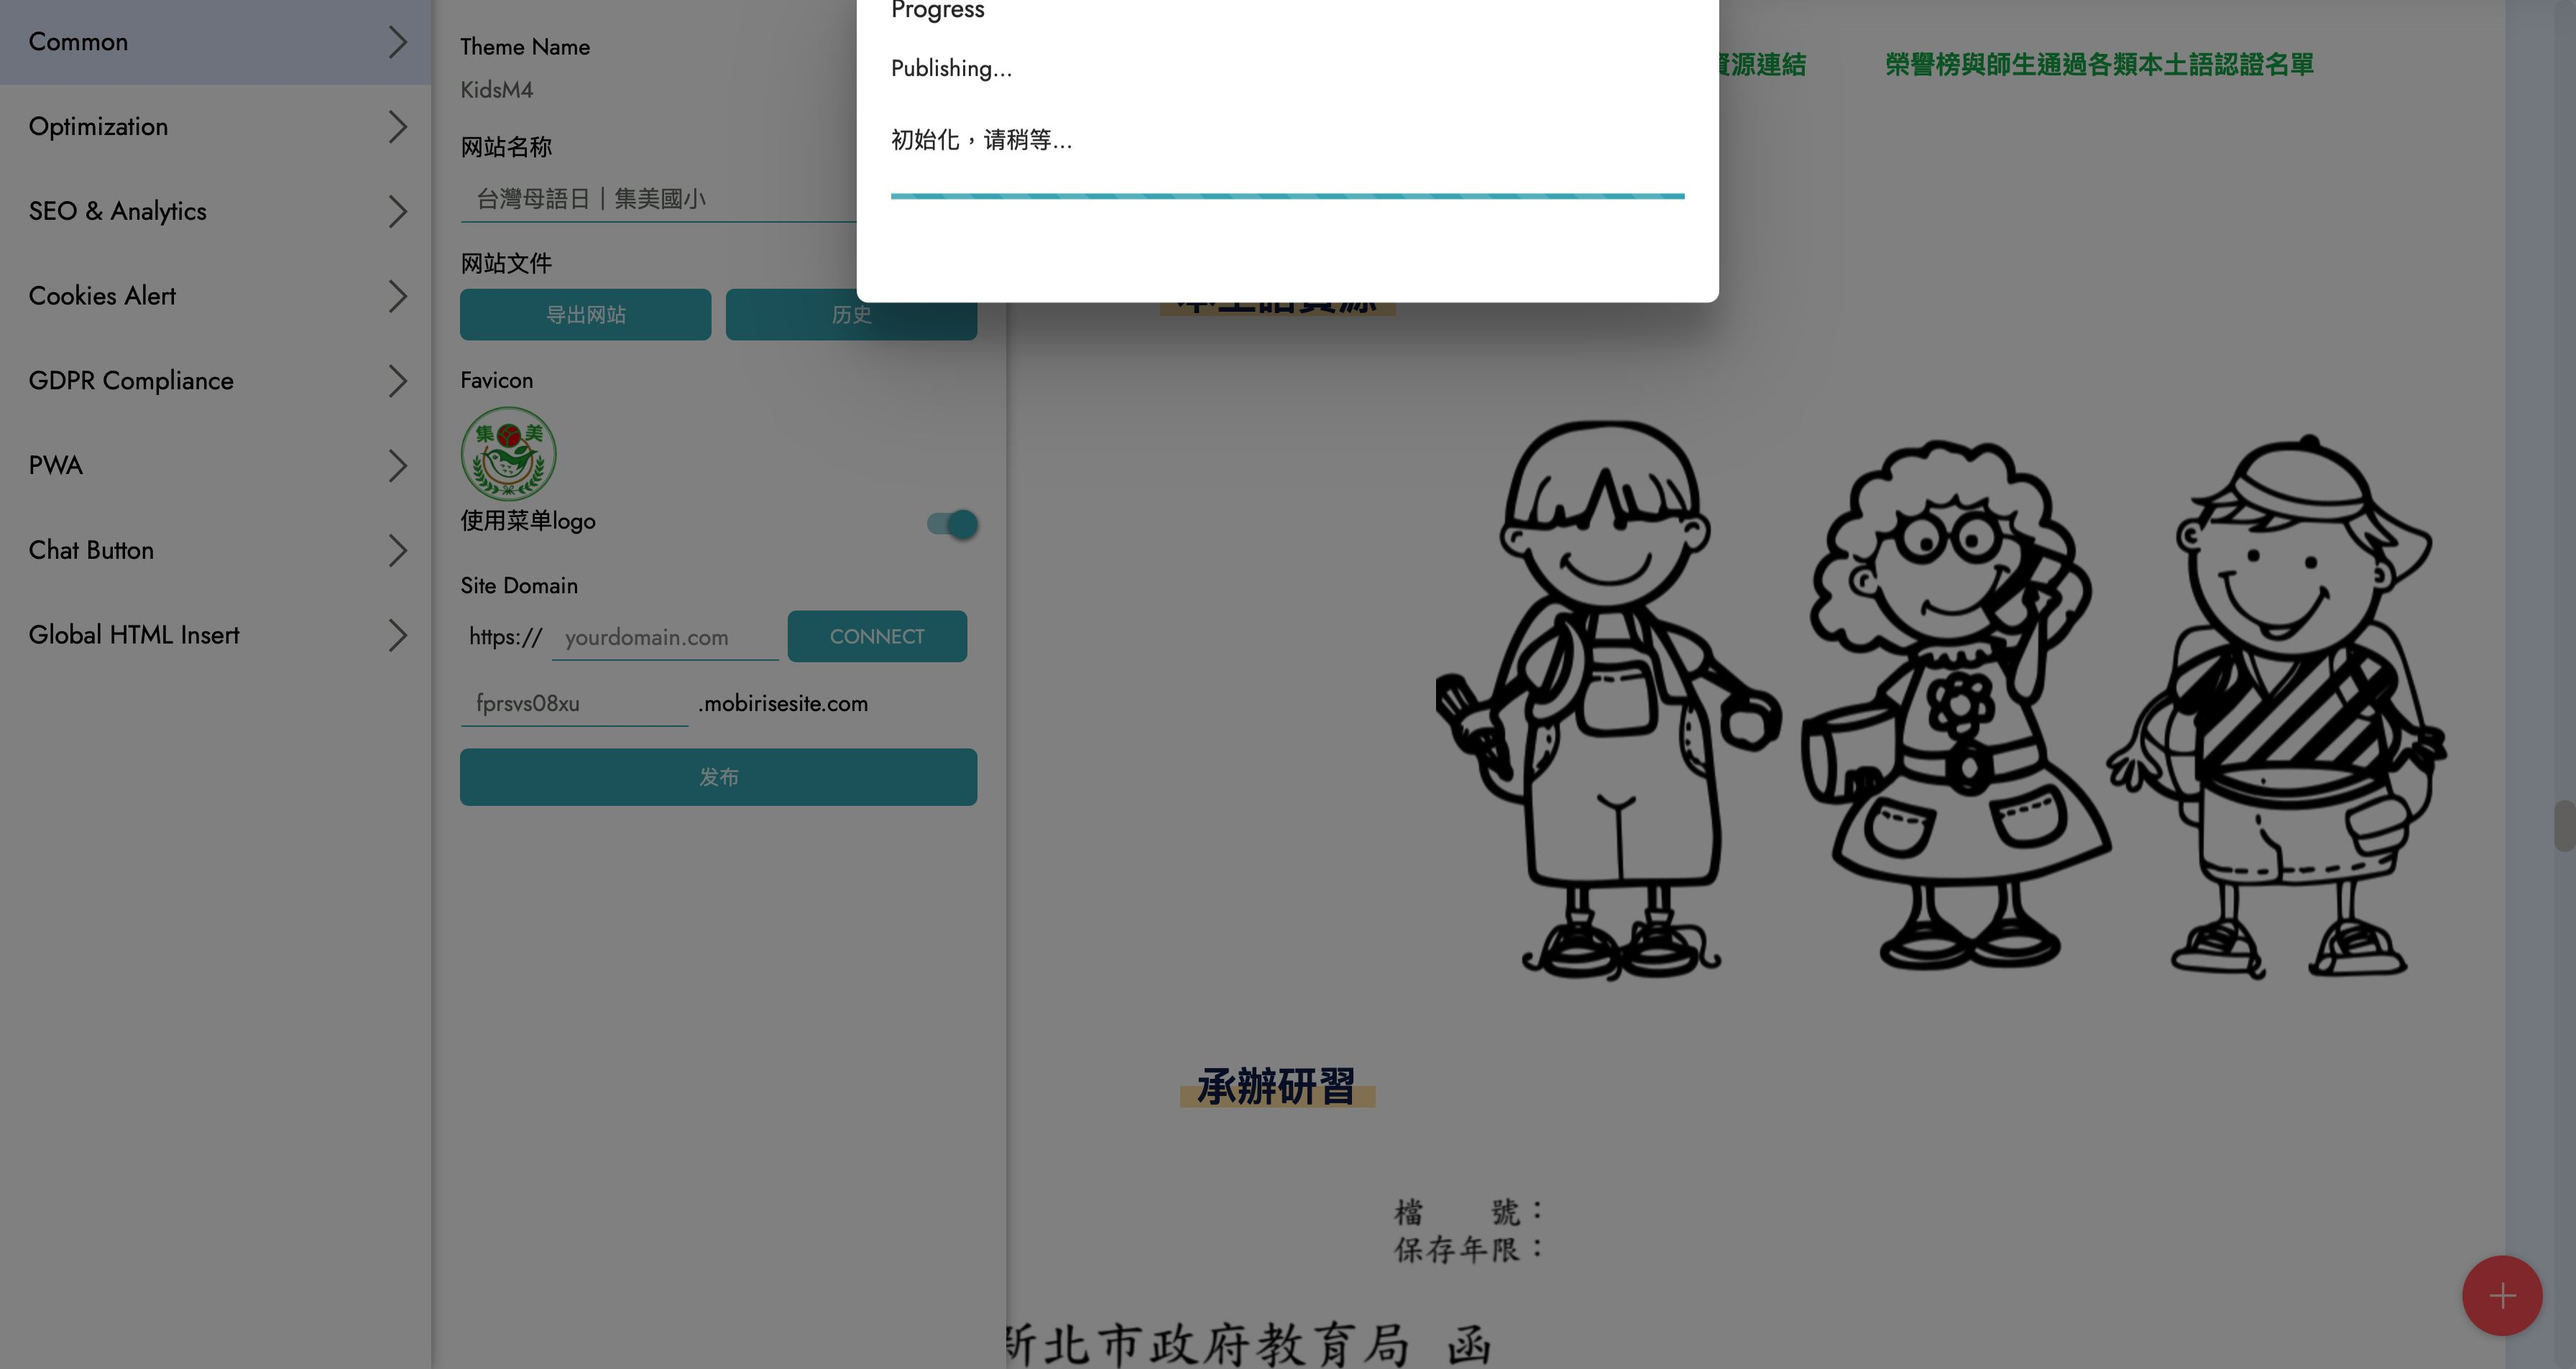
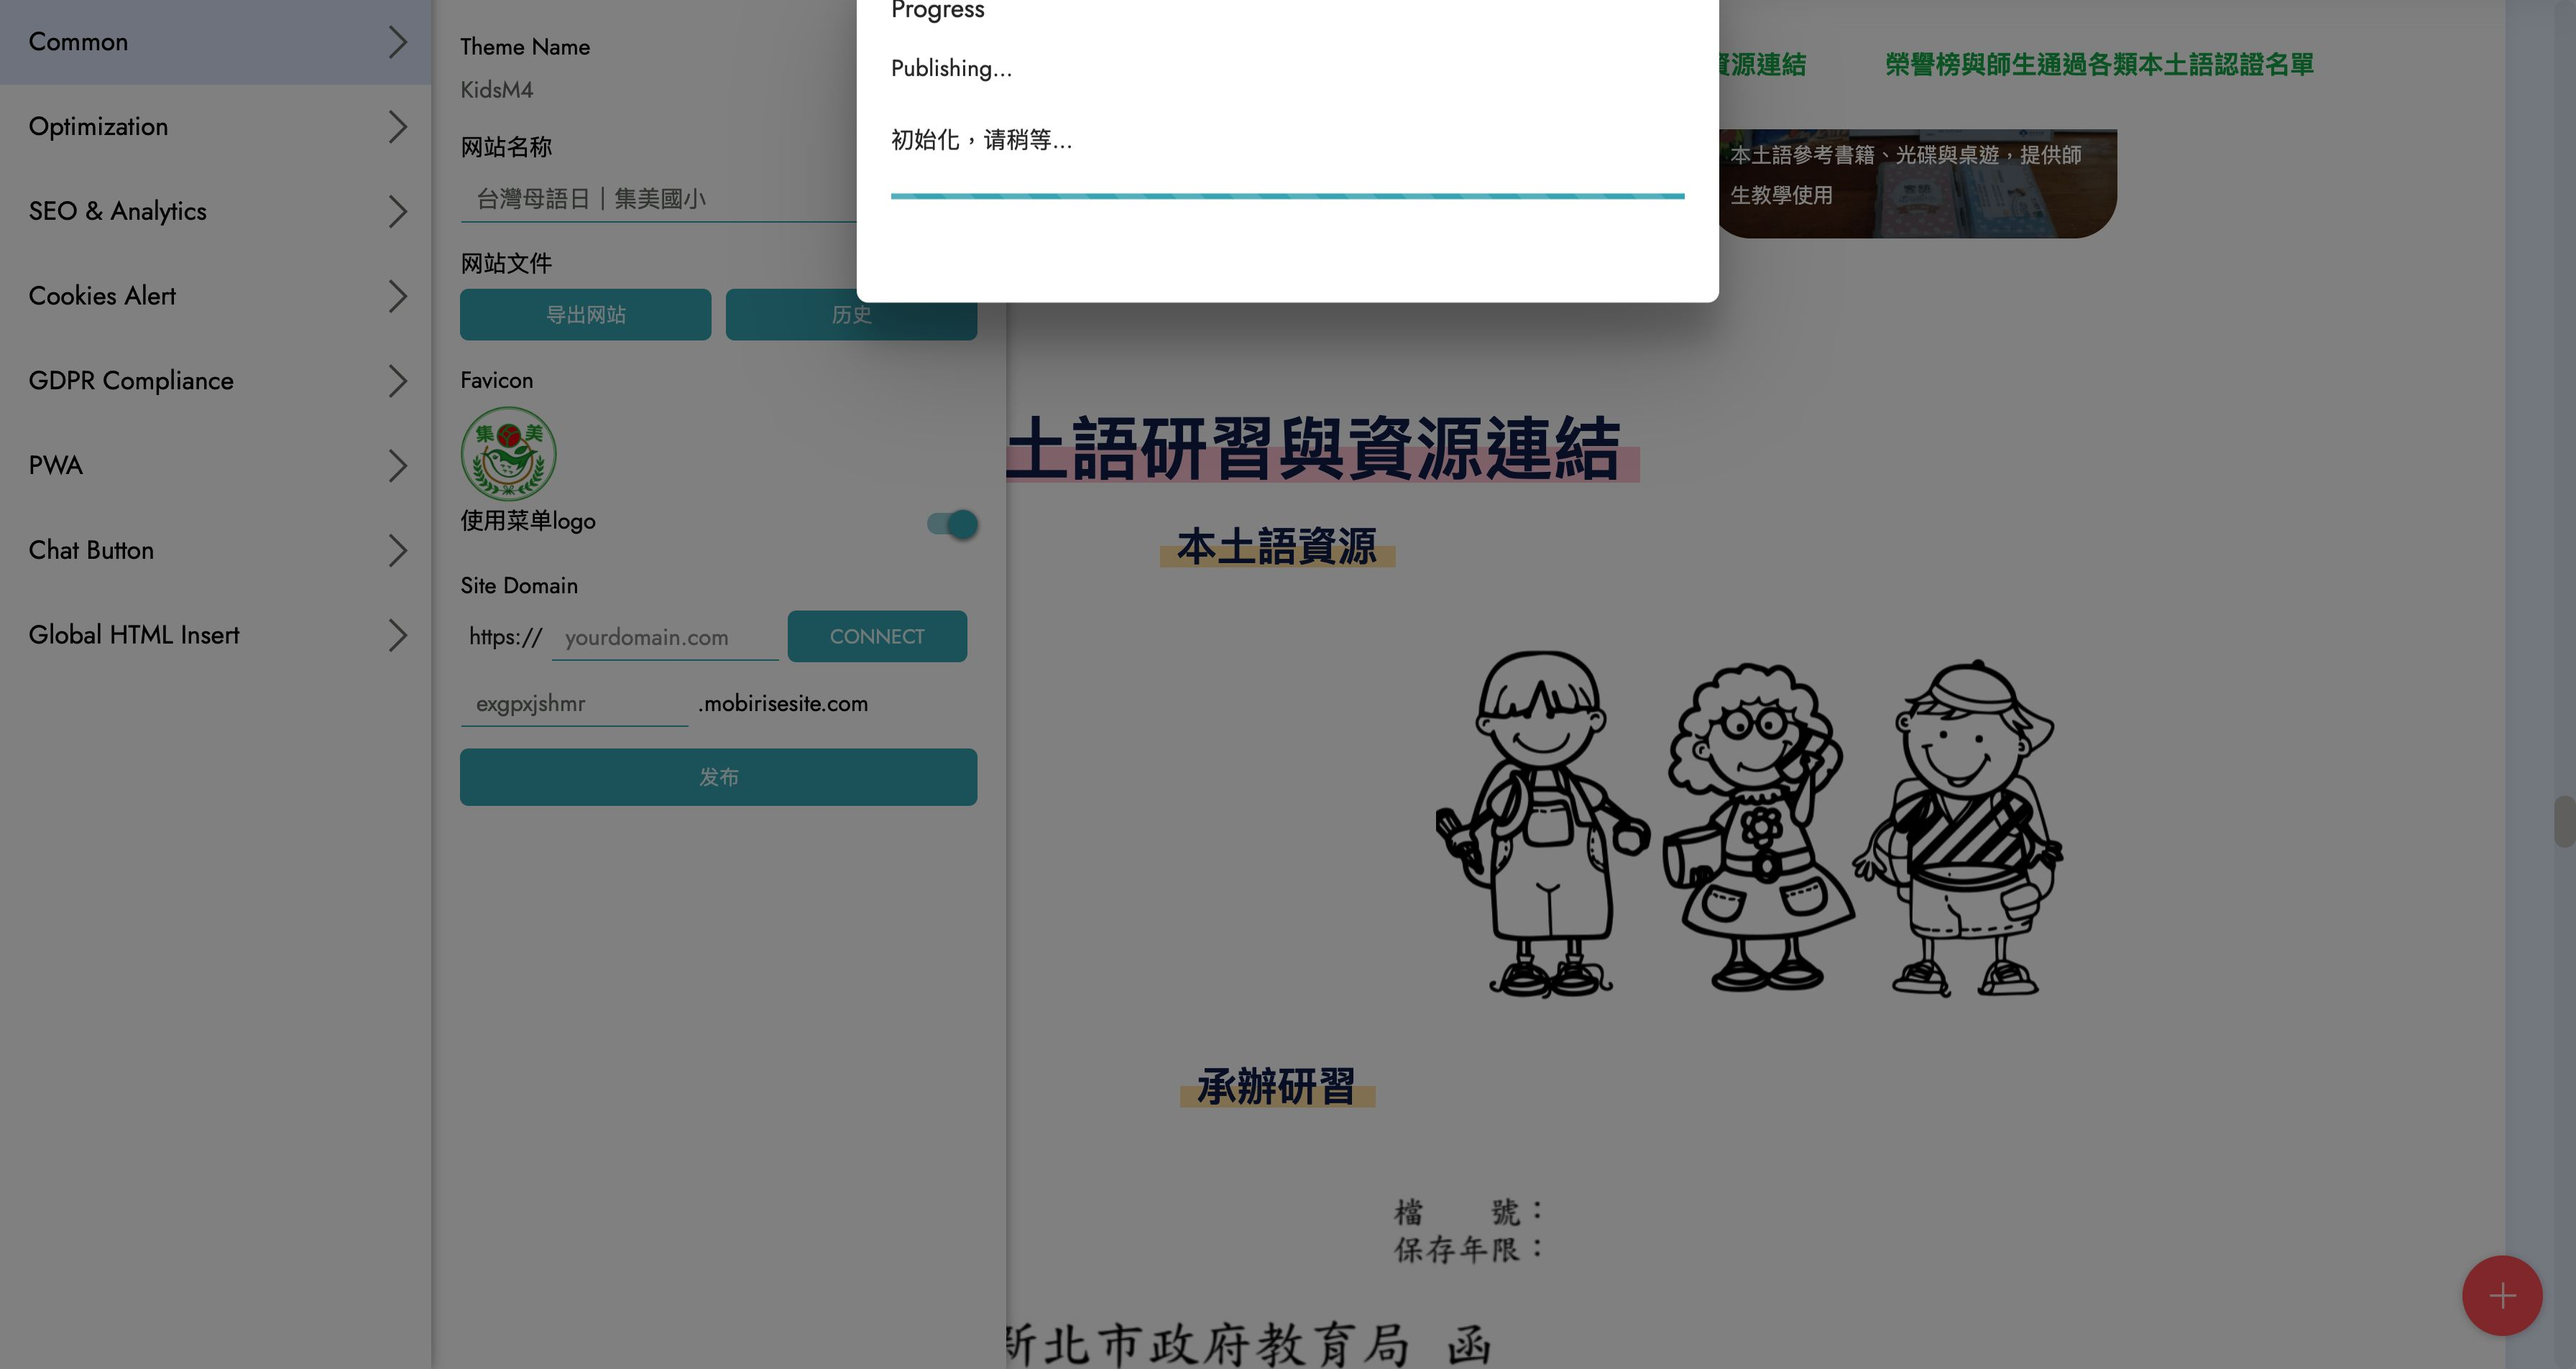
本土語資源圖片修正自適應寬高

diff --git a/index.html b/index.html
@@ -1062,7 +1062,7 @@
             </div>
 
             <div class="col-lg-5 col-md-12">
-                <img src="assets/images/mbr-27.png" alt="新北市本土語資源 - 集美國小" title="">
+                <img class="img-fluid" src="assets/images/mbr-27.png" alt="新北市本土語資源 - 集美國小" title="">
             </div>
 
         </div>
